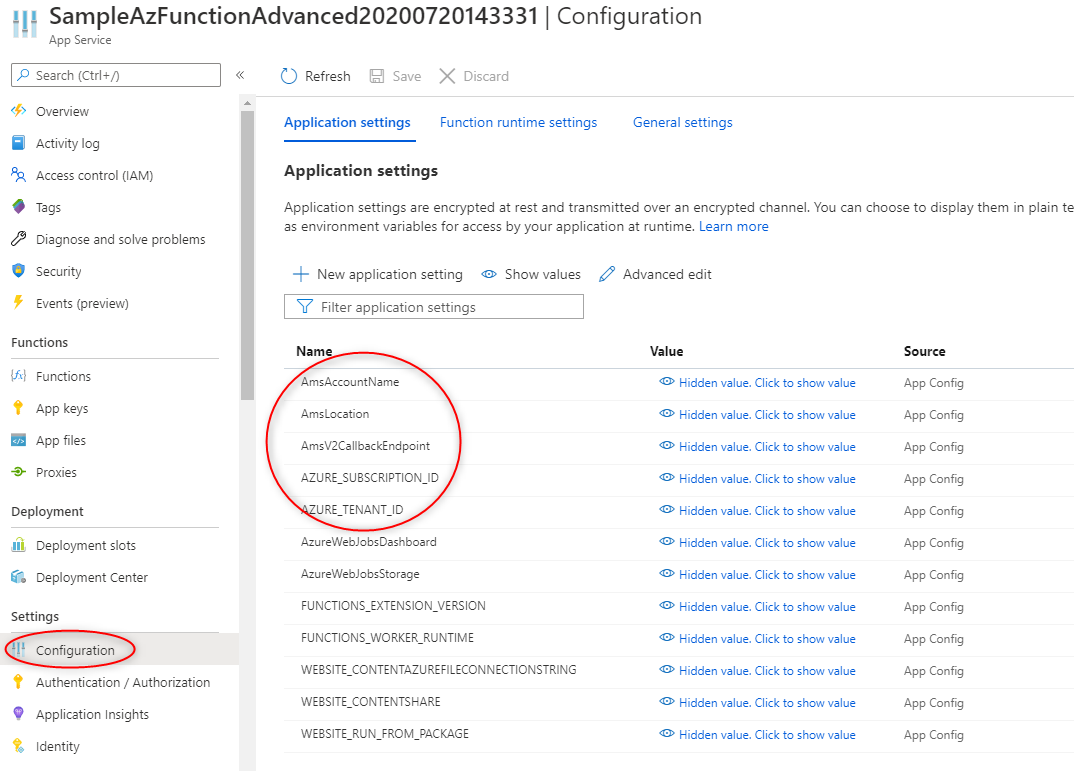
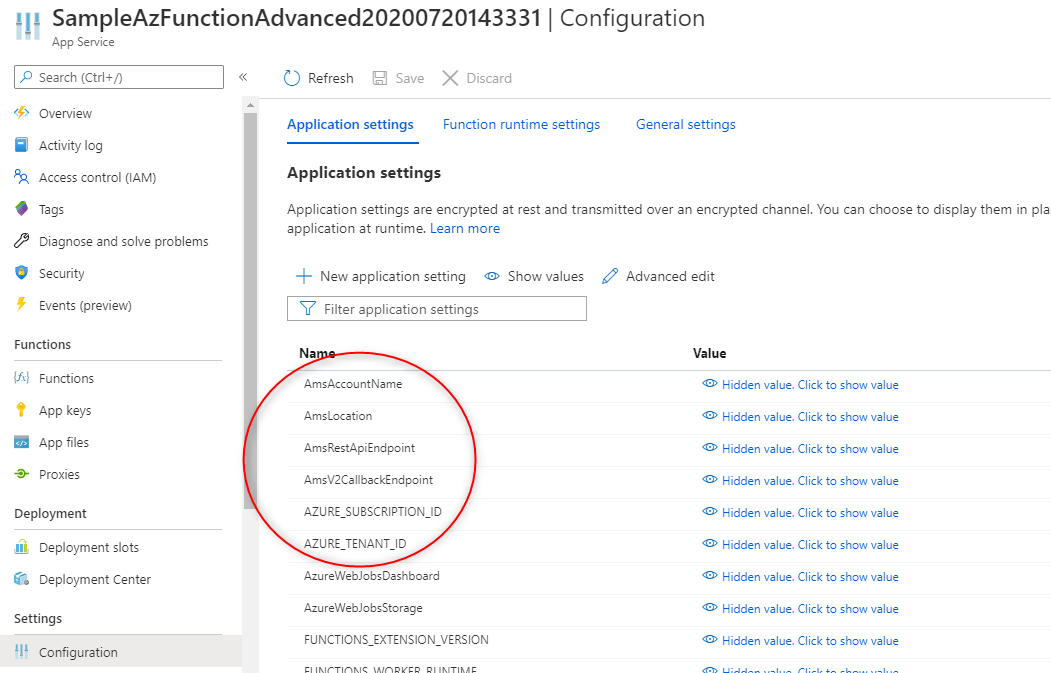
Fix an issue - support for AmsRestApiEndpoint app variable

diff --git a/src/MediaServicesV2.Library.RestSharp/MediaServicesV2RestSharp.cs b/src/MediaServicesV2.Library.RestSharp/MediaServicesV2RestSharp.cs
@@ -46,7 +46,7 @@ namespace MediaServicesV2.Library.RestSharp
 
             var amsAccountName = configuration.GetValue<string>("AmsAccountName") ?? throw new Exception("'AmsAccountName' app setting is required.");
             var amsLocation = configuration.GetValue<string>("AmsLocation") ?? throw new Exception("'AmsLocation' app setting is required.");
-            var baseUrl = $"https://{amsAccountName}.restv2.{amsLocation}.media.azure.net/api/";
+            var baseUrl = configuration.GetValue<string>("AmsRestApiEndpoint") ?? throw new Exception("'AmsRestApiEndpoint' app setting is required.");
             _restClient = new RestClient(baseUrl);
         }
 

diff --git a/src/Sample.AzFunction.HelloWorld/GetJobById.cs b/src/Sample.AzFunction.HelloWorld/GetJobById.cs
@@ -53,7 +53,7 @@ namespace Sample.AzFunction.HelloWorld
 
             var amsAccountName = configuration.GetValue<string>("AmsAccountName") ?? throw new Exception("'AmsAccountName' app setting is required.");
             var amsLocation = configuration.GetValue<string>("AmsLocation") ?? throw new Exception("'AmsLocation' app setting is required.");
-            var baseUrl = $"https://{amsAccountName}.restv2.{amsLocation}.media.azure.net/api/";
+            var baseUrl = configuration.GetValue<string>("AmsRestApiEndpoint") ?? throw new Exception("'AmsRestApiEndpoint' app setting is required.");
             _restClient = new RestClient(baseUrl);
         }
 

diff --git a/src/Sample.AzFunction.Advanced/DTO/EncodingFunctionInputDTO.cs b/src/Sample.AzFunction.Advanced/DTO/EncodingFunctionInputDTO.cs
@@ -18,7 +18,7 @@ namespace Sample.AzFunction.Advanced.Models
         public IEnumerable<InputItem> Inputs { get; set; }
 
         /// <summary>
-        /// Gets or sets Media Encoder Standard preset name. For example "Sprites" or "Adaptive Streaming"
+        /// Gets or sets Media Encoder Standard preset name. For example "SpriteOnlySetting" or "Adaptive Streaming"
         /// </summary>
         [JsonProperty("presetName")]
         public string PresetName { get; set; }

diff --git a/README.md b/README.md
@@ -69,6 +69,7 @@ Add the following application settings :
 - **AZURE_SUBSCRIPTION_ID**
 - **AmsAccountName**
 - **AmsLocation**
+- **AmsRestApiEndpoint**
 - **AmsV2CallbackEndpoint**
 
 ![Functions Application Settings](./docs/img/config-functions.png)
@@ -77,30 +78,35 @@ Use "Advanced edit" mode and add :
 
 ```json
 {
-    "name": "AmsAccountName",
-    "value": "<< Put your azure media services account name here. >>",
-    "slotSetting": false
-  },
-  {
-    "name": "AmsLocation",
-    "value": "<< Put your azure media services account location here. e.g westus >>",
-    "slotSetting": false
-  },
-  {
-    "name": "AmsV2CallbackEndpoint",
-    "value": "<< Put your azure media services callback endpoint here. e.g https://my.service.com/amsv2statusendpoint or an empty sting when not using a callback endpoint.>>",
-    "slotSetting": false
-  },
-  {
-    "name": "AZURE_SUBSCRIPTION_ID",
-    "value": "<< Put your Subscription Guid here. >>",
-    "slotSetting": false
-  },
-  {
-    "name": "AZURE_TENANT_ID",
-    "value": "<< Put your Tenant Guid here. >>",
-    "slotSetting": false
-  },
+  "name": "AmsAccountName",
+  "value": "<< Put your azure media services account name here. >>",
+  "slotSetting": false
+},
+{
+  "name": "AmsLocation",
+  "value": "<< Put your azure media services account location here. e.g westus >>",
+  "slotSetting": false
+},
+{
+  "name": "AmsRestApiEndpoint",
+  "value": "<< Put your azure media services REST api endpoint here. >>",
+  "slotSetting": false
+},
+{
+  "name": "AmsV2CallbackEndpoint",
+  "value": "<< Put your azure media services callback endpoint here. e.g https://my.service.com/amsv2statusendpoint or an empty sting when not using a callback endpoint.>>",
+  "slotSetting": false
+},
+{
+  "name": "AZURE_SUBSCRIPTION_ID",
+  "value": "<< Put your Subscription Guid here. >>",
+  "slotSetting": false
+},
+{
+  "name": "AZURE_TENANT_ID",
+  "value": "<< Put your Tenant Guid here. >>",
+  "slotSetting": false
+}
 ```
 
 ### Running locally the Azure functions or the console app
@@ -111,6 +117,7 @@ From the template, create a local.settings.json file (for Azure Functions) or a 
 - **AZURE_SUBSCRIPTION_ID**
 - **AmsAccountName**
 - **AmsLocation**
+- **AmsRestApiEndpoint**
 
 These will allow for the local user to log in interactively and use their identity for Azure operations, ensure they have sufficient privilege.
 

diff --git a/src/Sample.AzFunction.HelloWorld/readme.md b/src/Sample.AzFunction.HelloWorld/readme.md
@@ -17,6 +17,7 @@ This function app demonstrates the minimum amount of code to get an auth token a
 The Azure Function App uses a [Startup class](Startup) and [dependency injection](https://docs.microsoft.com/en-us/azure/azure-functions/functions-dotnet-dependency-injection) to provide a [TokenCredential](https://docs.microsoft.com/en-us/dotnet/api/azure.identity.defaultazurecredential?view=azure-dotnet) to the instance of the [Azure Function GetJobById](./GetJobById.cs).
 
 Auth Flow:
+
  1. In ```ConfigureRestClient()``` the TokenCredential is used to request a bearer token with a scope of: ```https://rest.media.azure.net/.default```
  2. That bearer token is then used for calls to the base url for AMS V2 REST API, which has the form: ```https://{amsAccountName}.restv2.{amsLocation}.media.azure.net/api/```
 
@@ -24,4 +25,3 @@ Auth Flow:
 
 We use a [DefaultAzureCredential](https://docs.microsoft.com/en-us/dotnet/api/azure.identity.defaultazurecredential?view=azure-dotnet) as a TokenCredential, with ```includeInteractiveCredentials=true```, this will prompt for a credential when running locally.
 It expects a Managed Identity with adequate rights to the Azure Media Services resource uri, when running in Azure.  See the Advanced sample for more details on deploying such an app.
-
